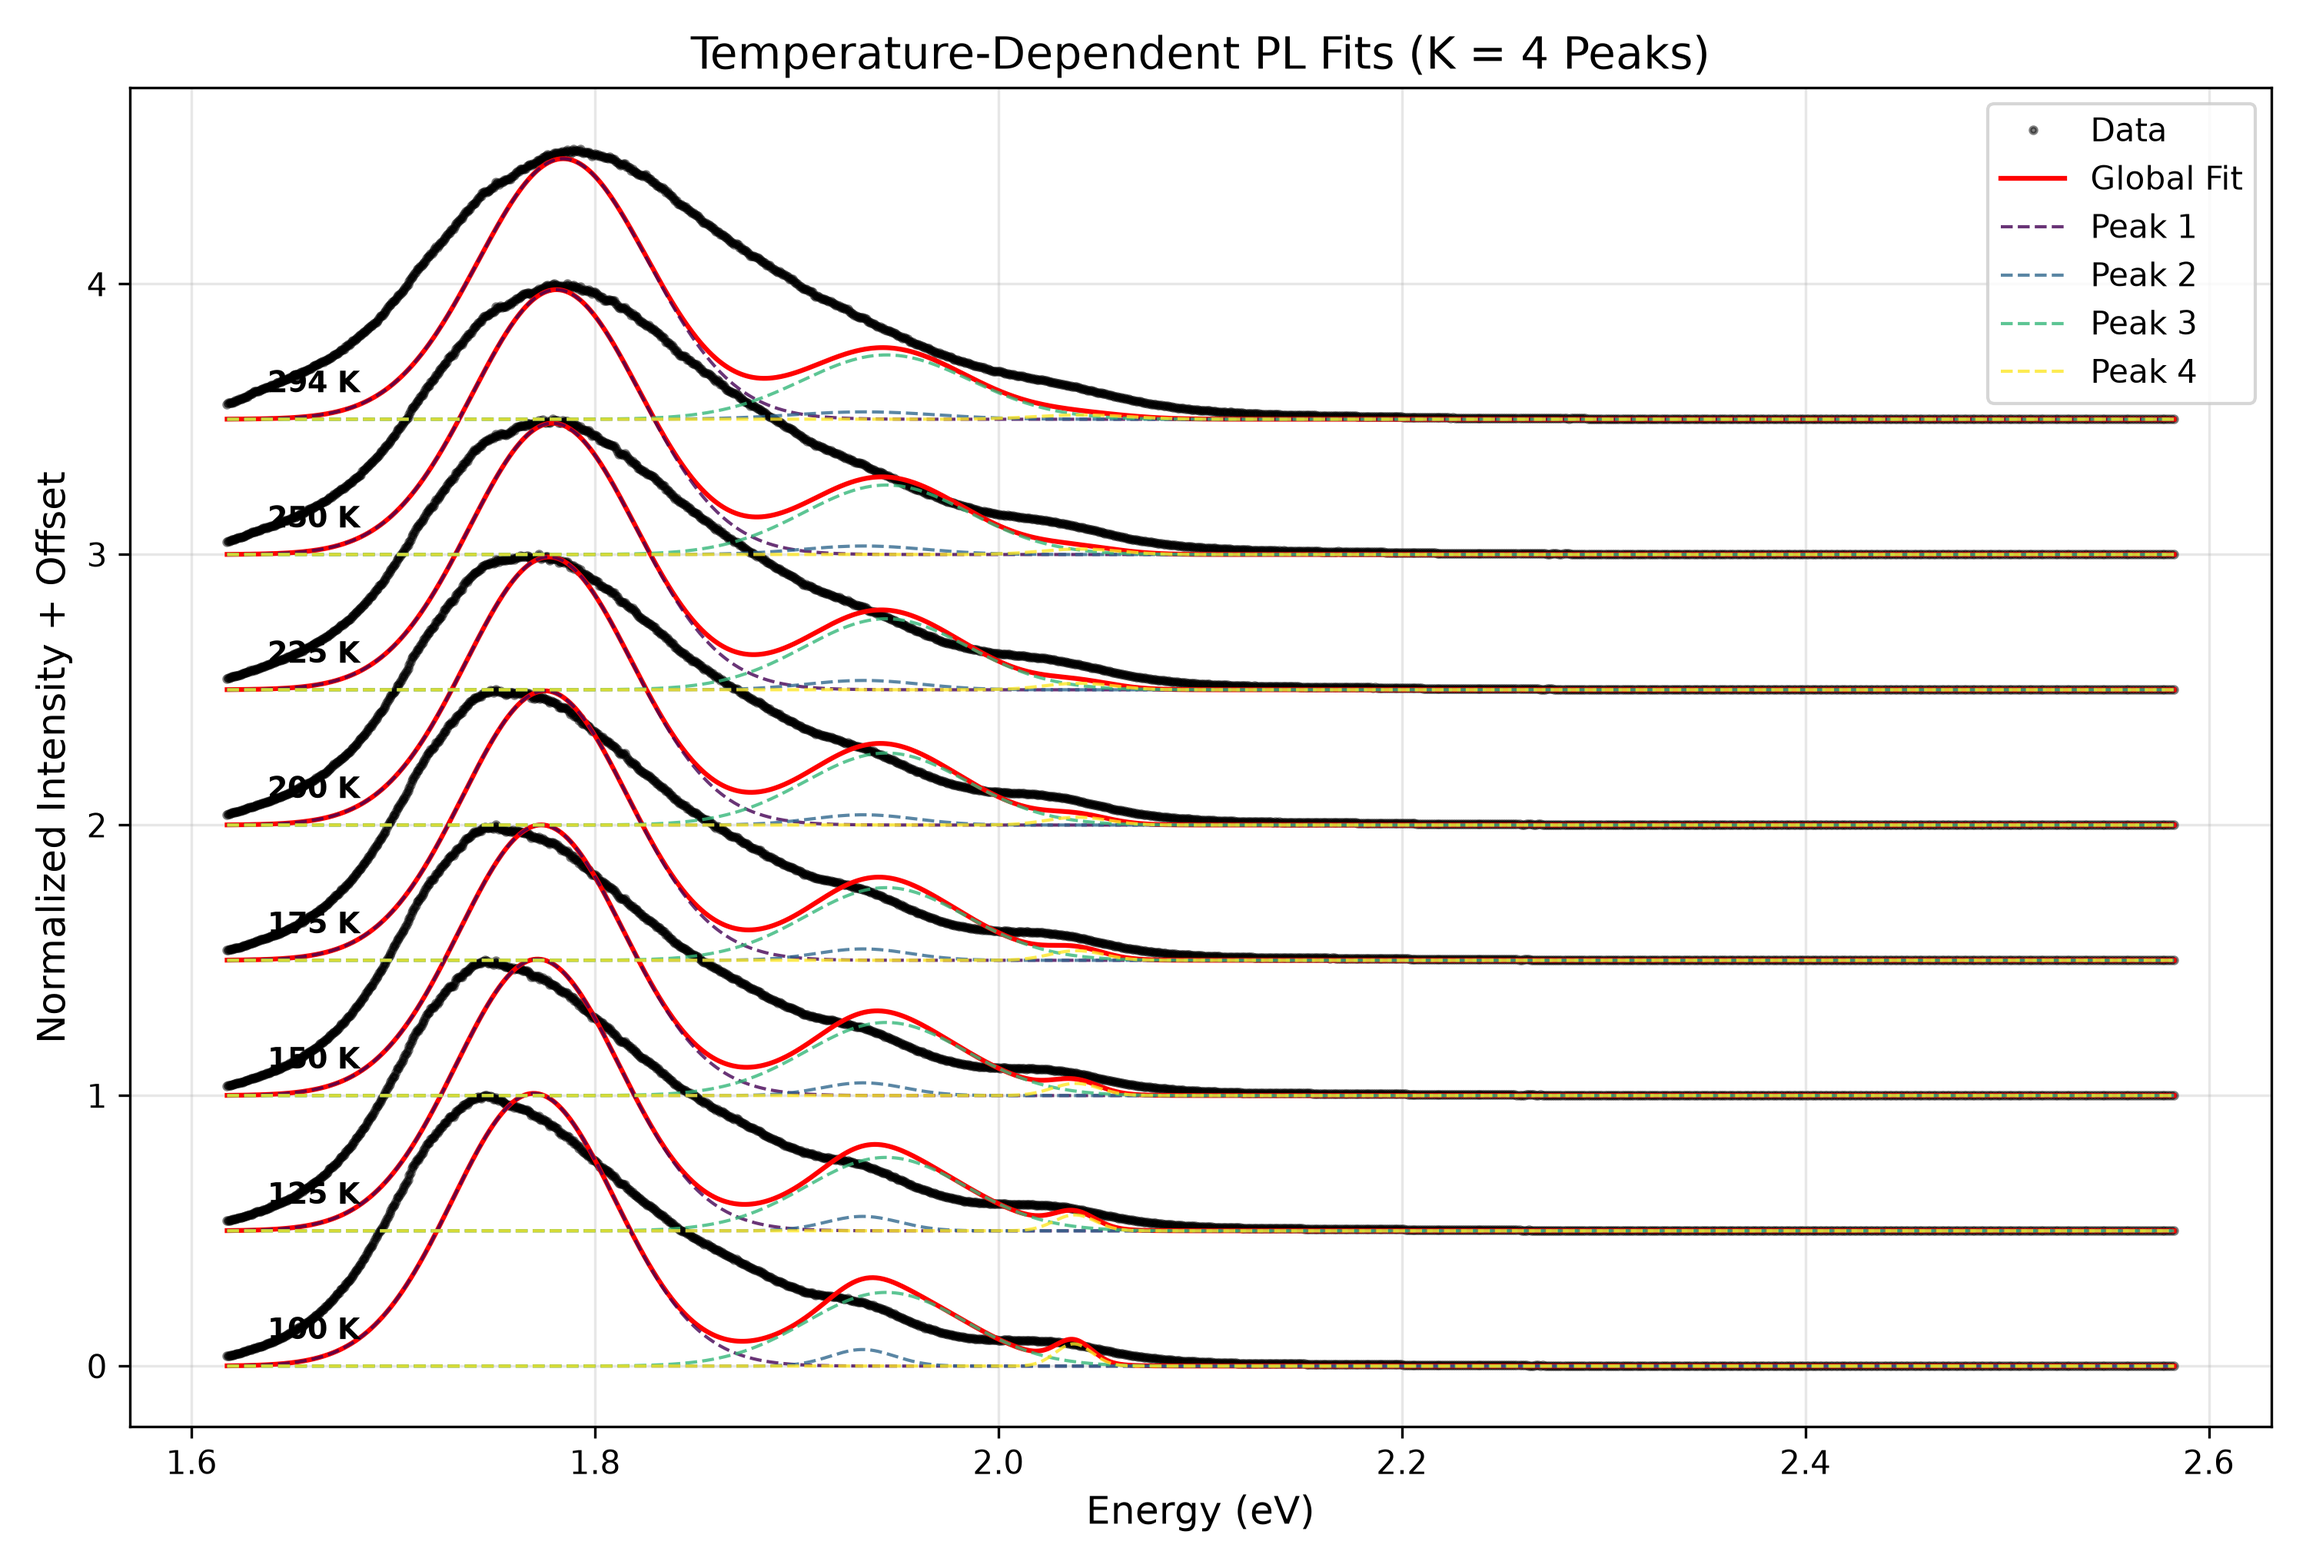
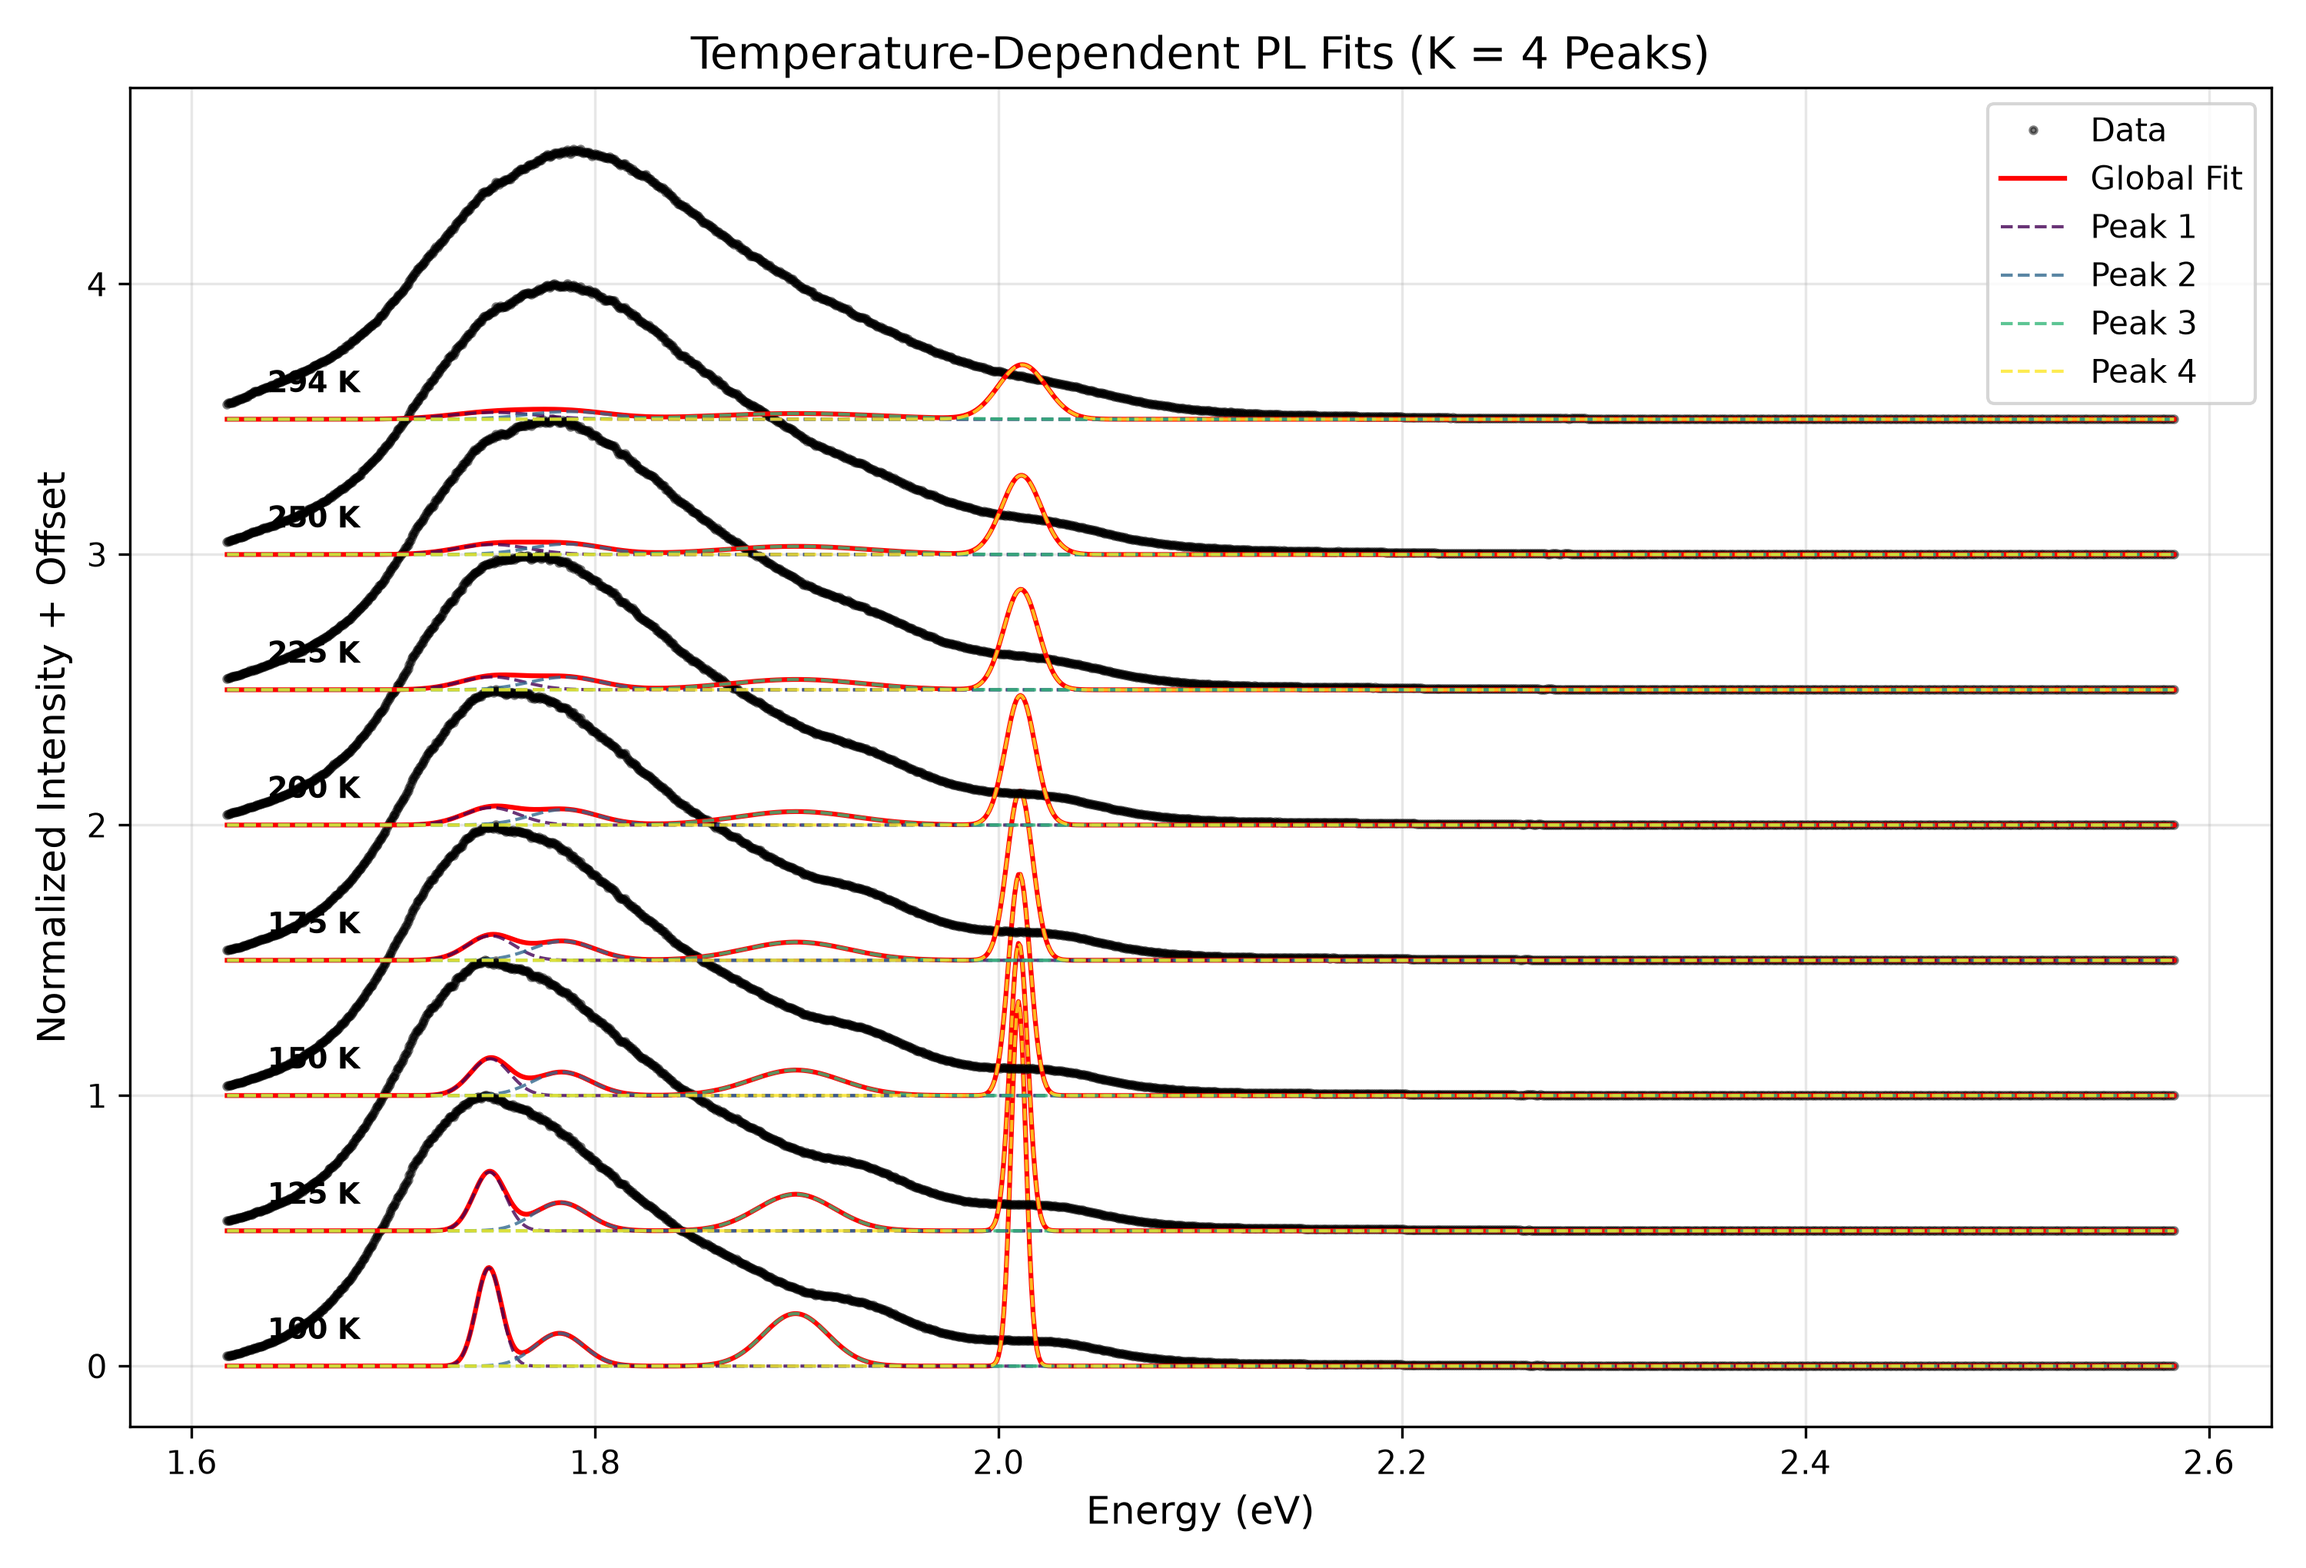
doing stuff

diff --git a/src/temp_dependent_pl_proccessing/main.py b/src/temp_dependent_pl_proccessing/main.py
@@ -9,6 +9,8 @@ performs BIC model selection, and saves diagnostic figures.
 from pathlib import Path
 from typing import Dict, List, Optional, Tuple, Union
 import numpy as np
+from datetime import datetime
+import time
 
 from temp_dependent_pl_proccessing.bayesian_sampler import run_mcmc_sampling
 from temp_dependent_pl_proccessing.data_loader import process_temperature_series
@@ -109,15 +111,19 @@ def run_full_analysis_pipeline(
     FileNotFoundError: Raised if input directory or files do not exist.
     ValueError: Raised if processing or MCMC sampling parameters are invalid.
     """
-    out_path = Path(output_dir)
+    start_time = time.perf_counter()
+
+    timestamp = datetime.now().strftime("%Y%m%d_%H%M%S")
+    out_path = Path(output_dir) / timestamp
     out_path.mkdir(parents=True, exist_ok=True)
 
     logger = setup_logger(
-        name="pl_analysis.main",
+        name="pl_analysis",
         log_level="INFO",
         log_file=out_path / "pipeline.log",
     )
     logger.info("Initializing Photoluminescence Joint Bayesian MCMC Pipeline.")
+    logger.info(f"Steps: {n_steps} \n Burn in: {burn_in} \n Walkers: {n_walkers}")
 
     # 1. Pairing and Ingesting Spectra
     file_triplets = build_shared_triplets(
@@ -154,6 +160,7 @@ def run_full_analysis_pipeline(
     )
 
     print(f"Min acceptance:  {np.min(sampler_k.acceptance_fraction):.3f}" + f"Mean Acceptance Fraction: {np.mean(sampler_k.acceptance_fraction):.3f}")
+    logger.info(f"Min acceptance:  {np.min(sampler_k.acceptance_fraction):.3f}" + f"Mean Acceptance Fraction: {np.mean(sampler_k.acceptance_fraction):.3f}")
 
     eval_k = evaluate_model_fit(flat_samples_k, flat_log_prob_k, processed_series, num_peaks=k_base)
     best_params = eval_k["mle_params"]
@@ -212,8 +219,14 @@ def run_full_analysis_pipeline(
         num_peaks=selected_k,
         save_path=out_path / "posterior_corner.png",
     )
+    end_time = time.perf_counter()
+    runtime_s = end_time - start_time
 
-    logger.info("Pipeline completed successfully. Figures saved to directory: %s", out_path)
+    minutes, seconds = divmod(runtime_s, 60)
+    hours, minutes = divmod(minutes, 60)
+    runtime = f"{hours:.0f}:{minutes:.0f}:{seconds:.0f}"
+    logger.info(f"Pipeline completed successfully. Runtime: {runtime}. Figures saved to directory: {out_path}")
+    
 
 
 if __name__ == "__main__":
@@ -223,7 +236,7 @@ if __name__ == "__main__":
     CALIBRATION_FILE = Path(SAMPLES_DIR) / "iCCD_355_correction.csv" # Single shared response calibration spectrum file
 
     # Initial peak center estimates from absorption data (eV)
-    ABSORPTION_PEAKS = [1.75, 1.82, 1.95, 2.02]
+    ABSORPTION_PEAKS = [1.75, 1.80, 1.93, 2.02]
 
     # Optional custom initial guesses for physical parameters
     CUSTOM_GUESSES = [
@@ -251,6 +264,7 @@ if __name__ == "__main__":
             "gamma_lo": 0.025,
             "e_a": 0.035,
         },
+
     ]
 
     run_full_analysis_pipeline(
@@ -260,10 +274,10 @@ if __name__ == "__main__":
         absorption_peaks=ABSORPTION_PEAKS,
         custom_peak_guesses=CUSTOM_GUESSES,
         calibration_mode="multiply",
-        test_additional_peak=True,
+        test_additional_peak=False,
         output_dir="results",
-        n_walkers=500,
-        n_steps=20000,
-        burn_in=6000,
+        n_walkers=200,
+        n_steps=100,
+        burn_in=30,
         use_parallel=True,
     )

diff --git a/src/temp_dependent_pl_proccessing/bayesian_sampler.py b/src/temp_dependent_pl_proccessing/bayesian_sampler.py
@@ -127,7 +127,7 @@ def log_prior(
     num_peaks - int: Number of emission peaks fitted.
     absorption_centers - List[float]: Target absorption peak centers in eV.
     temperatures - List[float]: Array of experimental temperatures in Kelvin present in the dataset.
-    center_window_ev - float: Gaussian anchor standard deviation in eV for E0(0).
+    center_window_ev - float: FWHM in eV for E0(0).
     max_fwhm_ev - float: Maximum physical linewidth limit in eV at any individual temperature (default: 0.250 eV).
     min_energy_ev - float: Lower detector/grid energy bound in eV (default: 1.20 eV).
     max_energy_ev - float: Upper detector/grid energy bound in eV (default: 2.80 eV).
@@ -164,7 +164,8 @@ def log_prior(
             return -np.inf
 
         target_center = absorption_centers[k]
-        lp += -0.5 * ((e0 - target_center) / center_window_ev) ** 2
+        # 0.42466 factor converts s.d. to FWHM
+        lp += -0.5 * ((e0 - target_center) / (0.42466*center_window_ev)) ** 2
 
     log_sigma = params[-1]
     if not (-10.0 <= log_sigma <= 2.0):
@@ -179,7 +180,7 @@ def log_prior(
             e_t = e0 - alpha * t_val
             if not (min_energy_ev <= e_t <= max_energy_ev):
                 return -np.inf
-            if not (absorption_centers[k] - 0.04 <= e_t <= absorption_centers[k] + 0.04):
+            if not (absorption_centers[k] - 0.05 <= e_t <= absorption_centers[k] + 0.05):
                 return -np.inf
 
             # Evaluated linewidth Gamma_k(T) via Segall formula
@@ -192,7 +193,7 @@ def log_prior(
 
             # Evaluated intensity I_k(T) via Arrhenius quenching formula
             i_t = i0 / (1.0 + a_fac * np.exp(-e_a / (KB_EV * t_val)))
-            if not (1e-6 <= i_t <= 2.0):
+            if not (1e-3 <= i_t <= 1.0):
                 return -np.inf
 
         # Optional: Enforce peak energy ordering at higher temperatures (prevents high-T peak crossover)

diff --git a/src/temp_dependent_pl_proccessing/visualisation.py b/src/temp_dependent_pl_proccessing/visualisation.py
@@ -306,6 +306,8 @@ def plot_mcmc_traceplots(
         ax.plot(chain[:, :, i], "k-", alpha=0.15, lw=0.5)
         ax.set_ylabel(labels[i], fontsize=10)
         ax.grid(True, alpha=0.3)
+        ax.text(1,1, f"acceptance: {sampler.acceptance_fraction[i]}", ha="right", va="top", transform=ax.transAxes) 
+       
 
         if burn_in is not None:
             ax.axvline(x=burn_in, color="red", linestyle="--", lw=1.2, label="Burn-in Cutoff" if i == 0 else "")
